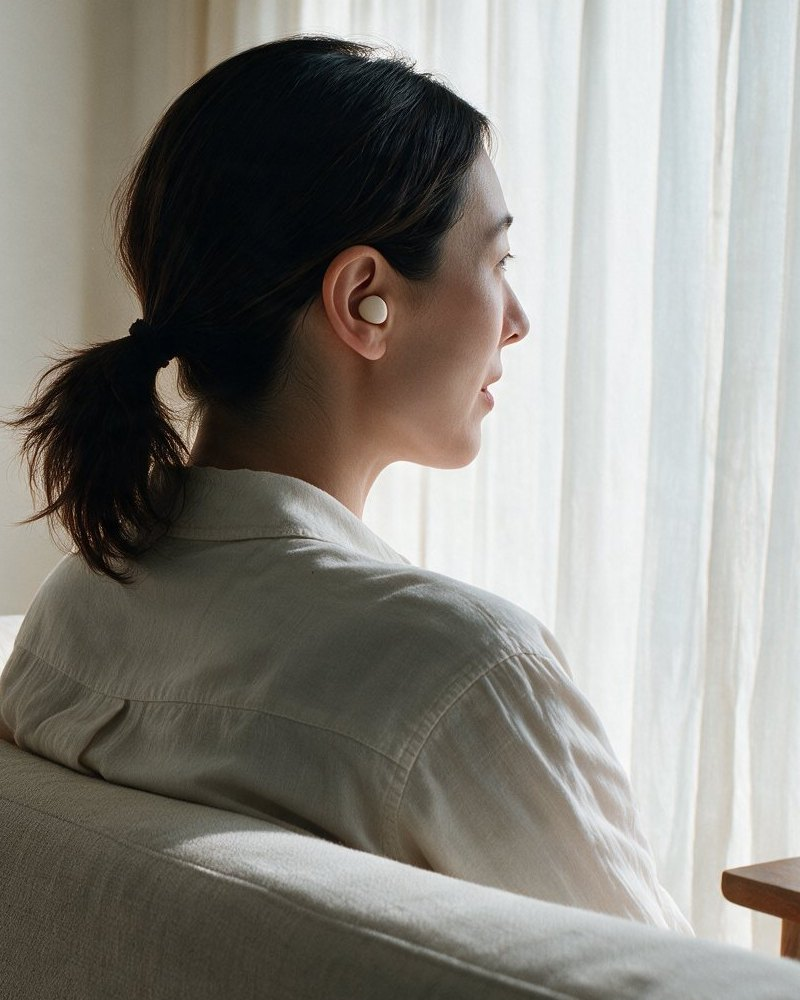
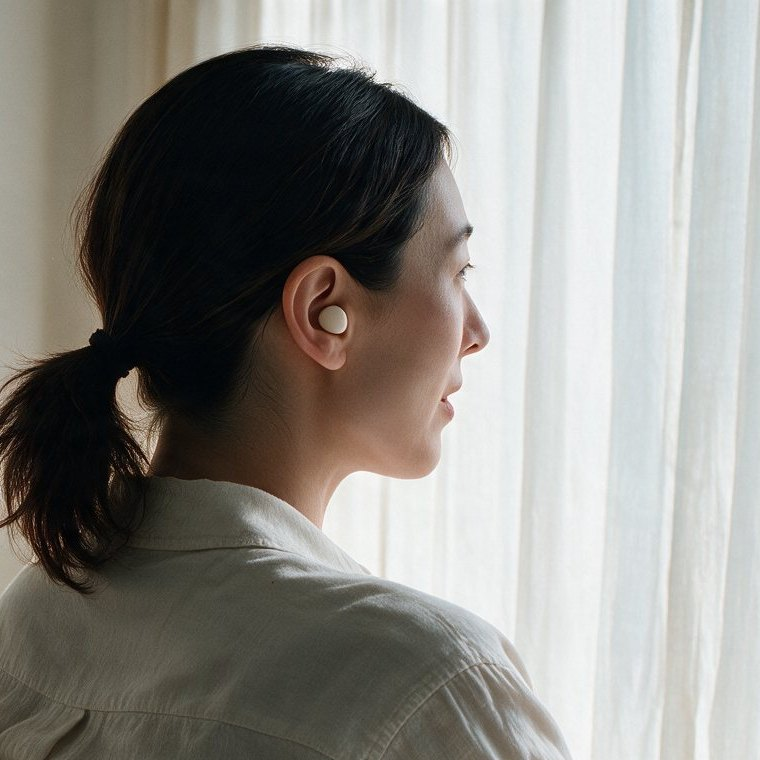
最初の一画面にボタンが入るようにする
実機の Safari は下に操作バーが出るので、iPhone 14 で見えているのは
852px ではなく 659px。幅から作っていた 491px の帯では、
ヘッダー 69 + 帯 491 + 文字塊 322 = 882px となり、
導入文の途中で画面が終わり、ボタンが一度も現れていなかった。

・帯の高さを「幅」ではなく「残っている高さ」から決める。
  100vh ではなく 100svh（バーが出ている時の高さ）から
  文字塊 322px + ヘッダー 69px を引く
・携帯用の切り抜きを 4:5 → 1:1 に。帯が 180〜460px と変わるので、
  縦を切られても耳（縦42%）と口（縦53%）が残る位置に寄せた
・ヒーローのボタンが見えている間は固定バーを出さない。
  同じ行き先が二重になるうえ、一番狭い画面で 58px を食っていた。
  JS が無い時は出したまま。ボタンが入らない小さな端末では
  固定バーが出るので、どちらか一つは必ず画面にある
・hero-contrast.js に 393×659 / 430×690（バー有）を追加

実測：ボタンの下端が 393×659 で 638／430×690 で 669／393×852 で 831。
いずれも画面内。ヒーローの対比は h1 17.11／導入文 13.74／前書き 9.6。
4ページの監査すべて合格。

diff --git a/assets/site/site.css b/assets/site/site.css
@@ -225,13 +225,28 @@ section.alt { background: var(--paper-warm); }
    耳（x≈1350）だけが写り、「耳から、声へ」の声のほうが消える。
    携帯には 4:5 に切り直した hero-mobile を出し（<picture> の media）、
    枠いっぱいにせず**帯**として置く（追補4 §154-B）。 */
-.hero { --hero-band: min(calc(100vw * 1.25), 620px); }
+/* 帯の高さは「画面の幅」ではなく「残っている高さ」から決める。
+   実機の Safari は下に操作バーが出るので、iPhone 14 は 852px ではなく
+   659px しか見えていない。幅から 100vw×1.25 = 491px の帯を作ると、
+   ヘッダー 69 + 帯 491 + 文字塊 322 = 882px となり、
+   **導入文の途中で画面が終わり、ボタンが一度も見えない。**
+   文字塊は実測 322px。svh（バーが出ている時の高さ）から引く。 */
+.hero {
+  --hero-text: 396px;                 /* 文字塊 322 + ヘッダー 69 + 余裕 */
+  --hero-band: min(
+    calc(100vw * 1.25),               /* 幅に対して縦長になりすぎない */
+    max(180px, calc(100svh - var(--hero-text))),
+    560px);
+}
 .hero__media {
   position: absolute; top: 0; left: 0; right: 0;
   height: var(--hero-band);
 }
 .hero__img, .hero__media picture { width: 100%; height: 100%; display: block; }
-.hero__img { object-fit: cover; object-position: 50% 45%; }
+/* 携帯用は 1:1。帯の高さが端末のバーで 180〜460px と大きく変わるので、
+   縦を切られても耳（縦42%）と口（縦53%）が残る位置に寄せてある。
+   短い帯では頭頂が切れるが、それは帯として正しい切り方。 */
+.hero__img { object-fit: cover; object-position: 50% 42%; }
 
 /* 階調は帯の中だけ。**下端で地色（--deep）に到達させる**のが肝心で、
    途中で止めると帯の切れ目が線になって見える。上は素のまま。 */
@@ -241,10 +256,9 @@ section.alt { background: var(--paper-warm); }
     rgba(31,27,23,0) 0%, rgba(31,27,23,.03) 42%, rgba(31,27,23,.20) 56%,
     rgba(31,27,23,.66) 67%, rgba(31,27,23,.93) 80%, rgba(31,27,23,1) 92%);
 }
-/* 文字の頭は帯の下端から 168px 上。重なるのはソファの部分だけで、
-   顔・耳・口には一切かからない。帯と別々の値を書くとずれるので
-   同じ --hero-band から引く。 */
-.hero__in { position: relative; padding-block: calc(var(--hero-band) - 168px) var(--s6); }
+/* 文字の頭は帯の下端から 96px 上。帯が短い端末では 168px も上げると
+   顔にかかるので、重ねる量は控えめにする。 */
+.hero__in { position: relative; padding-block: max(120px, calc(var(--hero-band) - 96px)) var(--s6); }
 .hero h1 { color: #fff; max-width: 12em; margin-bottom: var(--s3); }
 .hero .lede { color: rgba(251,249,246,.94); max-width: 30em; }
 /* 前書きは11pxの小さい文字なので 4.5:1 が要る。銅（#C98A5C）だと
@@ -604,6 +618,10 @@ a.feature:hover { border-color: var(--stone-deep); transform: translateY(-2px); 
 }
 .sticky a:hover { background: var(--bronze); }
 .sticky--one { grid-template-columns: 1fr; }
+/* ヒーローに同じ行き先のボタンが出ている間は、固定バーを出さない。
+   同じ誘導が二重になるうえ、一番狭い最初の画面で 58px を食う。
+   JS が動かない時は出したままにする（.js が付いた時だけ隠す）。 */
+.js .sticky[hidden] { display: none; }
 @media (min-width: 1000px) { .sticky { display: none; } }
 /* バーの高さは文言の折り返しで変わる。実測して --sticky-h に入れる */
 /* 問い合わせページには固定バーがない。:has で「ある時だけ」空ける。

diff --git a/tools/hero-contrast.js b/tools/hero-contrast.js
@@ -4,7 +4,9 @@ const L = ([r,g,b]) => 0.2126*lin(r)+0.7152*lin(g)+0.0722*lin(b);
 const cr = (a,b) => { const x=L(a),y=L(b); return +(((Math.max(x,y)+0.05)/(Math.min(x,y)+0.05)).toFixed(2)); };
 (async () => {
   const b = await chromium.launch();
-  for (const [w,h,n] of [[1440,900,'卓上'],[393,852,'携帯'],[320,568,'小']]) {
+    // 実機の Safari は下に操作バーが出る。852 ではなく 659 しか見えない。
+  // 帯の高さが変わると文字の下の地色も変わるので、必ず両方測る。
+  for (const [w,h,n] of [[1440,900,'卓上'],[393,852,'携帯'],[393,659,'携帯(バー有)'],[430,690,'大(バー有)'],[320,568,'小']]) {
     const ctx = await b.newContext({ viewport:{width:w,height:h}, deviceScaleFactor:1, reducedMotion:'reduce' });
     const pg = await ctx.newPage();
     await pg.goto('http://localhost:8105/', { waitUntil:'networkidle' });

diff --git a/assets/site/site.js b/assets/site/site.js
@@ -72,6 +72,17 @@
     window.addEventListener('resize', setStickyH);
     window.addEventListener('orientationchange', setStickyH);
     if (document.fonts && document.fonts.ready) document.fonts.ready.then(setStickyH);
+
+    /* ヒーローに同じ行き先のボタンが出ている間は、固定バーを出さない。
+       同じ誘導が二重になるうえ、一番狭い最初の画面で 58px を食う。
+       IntersectionObserver が無い環境では出したまま（隠さない）。 */
+    var heroCta = document.querySelector('.hero .row');
+    if (heroCta && 'IntersectionObserver' in window) {
+      sticky.hidden = true;
+      new IntersectionObserver(function (es) {
+        sticky.hidden = es[0].isIntersecting;
+      }, { threshold: 0 }).observe(heroCta);
+    }
   }
 
   var items = document.querySelectorAll('[data-reveal]');
